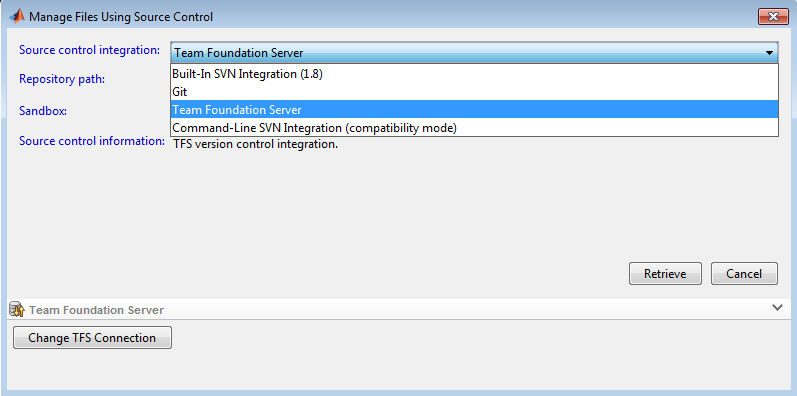
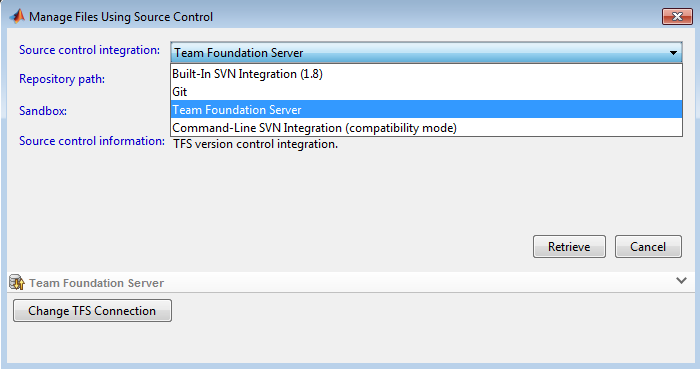
Update image to improve experience in some browsers

diff --git a/appReadMe.html b/appReadMe.html
@@ -59,7 +59,7 @@
             </p></li>           
         </ol>
         
-        <h2> Creating a workspace using MATLAB</h2>
+        <h2>Creating a workspace using MATLAB</h2>
         <ol>           
             <li><p>
                     In MATLAB's Current Folder browser navigate to the folder where you want
@@ -73,8 +73,9 @@
             </li>
             <li><p>
                     Select Team Foundation Server in the Source control integration dropdown.
-            </p></li>
+            </p>
                 <img src="img/TFSSelect.png" alt="Selecting TFS">
+            </li>
             <li><p> 
                     For the repository path, enter the source location on the TFS Server 
                     (ex: $/MyProject/Src/Main).
